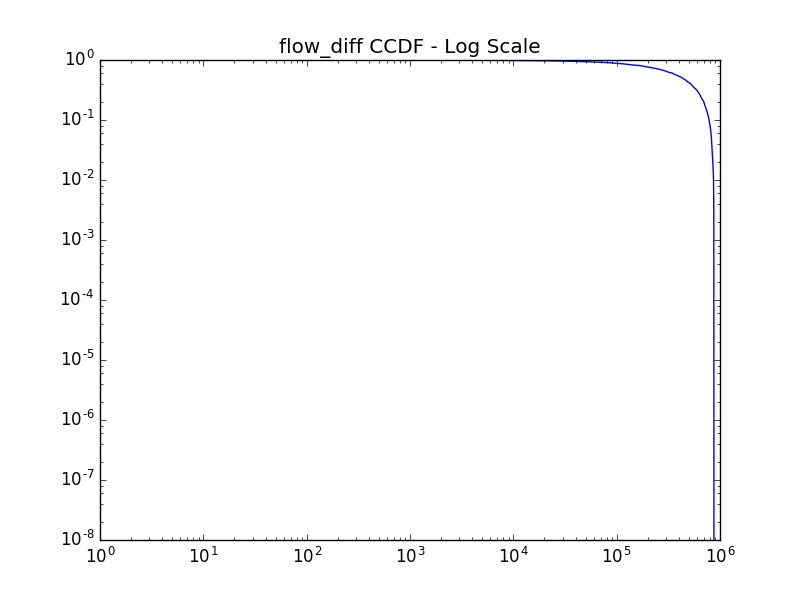
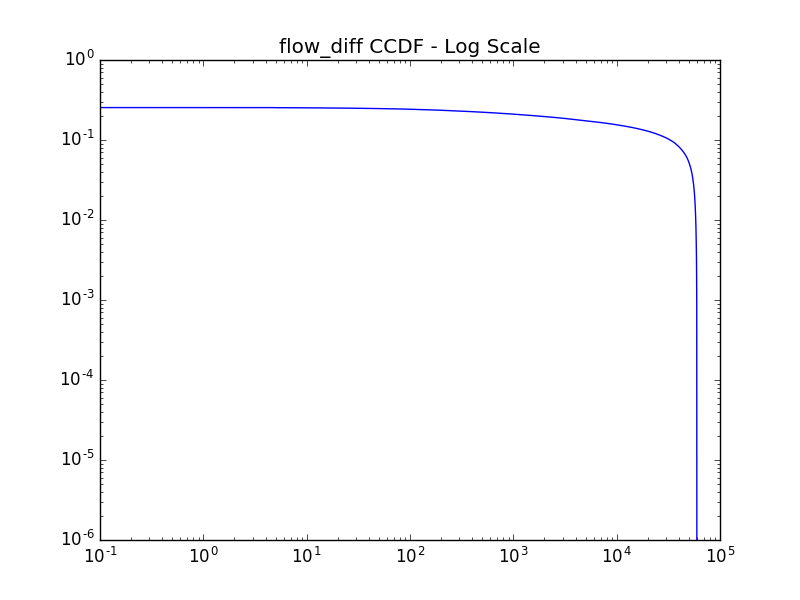
Correct Way to generate ccdf

diff --git a/main.py b/main.py
@@ -2,12 +2,12 @@ import pandas
 import config
 import matplotlib.pyplot as plt
 import numpy as np
+from scipy.stats import norm
 
 class InternetMeasurements:
     def __init__(self):
         self.dataframe = pandas.read_csv(config.FLOW_RECORD_FILE)
         
-
     def average_packet_size(self):
         self.datadescribe = self.dataframe.describe()
         self.dataframe['flow_diff'] = self.dataframe['last'] - self.dataframe['first']
@@ -16,20 +16,24 @@ class InternetMeasurements:
         return mean_doctets/mean_dpkts
 
     def plot_ccdf(self, column):
-        column_data = np.array(self.dataframe[column].tolist())
-        column_data = column_data/column_data.sum()
-        column_cdf  = np.cumsum(column_data)
+        column_data = np.copy(self.dataframe[column].values)
+        # column_data.sort()
+        # c = norm.cdf(column_data)
+
+
+        values, base = np.histogram(column_data, bins=column_data.shape[0]//2)
+        cumulative = np.cumsum(values)/len(column_data)
 
         fig, ax = plt.subplots()
         ax.set_title(column + " CCDF")
-        ax.plot(self.dataframe.index,1-column_cdf)
+        ax.plot(base[:-1], 1-cumulative)
         fig.savefig(column + ' ccdf.png')
 
         fig, ax = plt.subplots()
         ax.set_xscale('log')
         ax.set_yscale('log')
         ax.set_title(column + " CCDF" + " - Log Scale")
-        ax.plot(self.dataframe.index,1-column_cdf)
+        ax.plot(base[:-1], 1-cumulative)
         fig.savefig(column + ' ccdf log.png')
 
     def print_port_summary(self):
@@ -88,6 +92,9 @@ class InternetMeasurements:
         
 
 im = InternetMeasurements()
-# im.plot_ccdf('flow_diff')
+im.average_packet_size()
+im.plot_ccdf('flow_diff')
+im.plot_ccdf('doctets')
+im.plot_ccdf('dpkts')
 # im.print_port_summary()
-im.get_princeton_share()
+# im.get_princeton_share()
